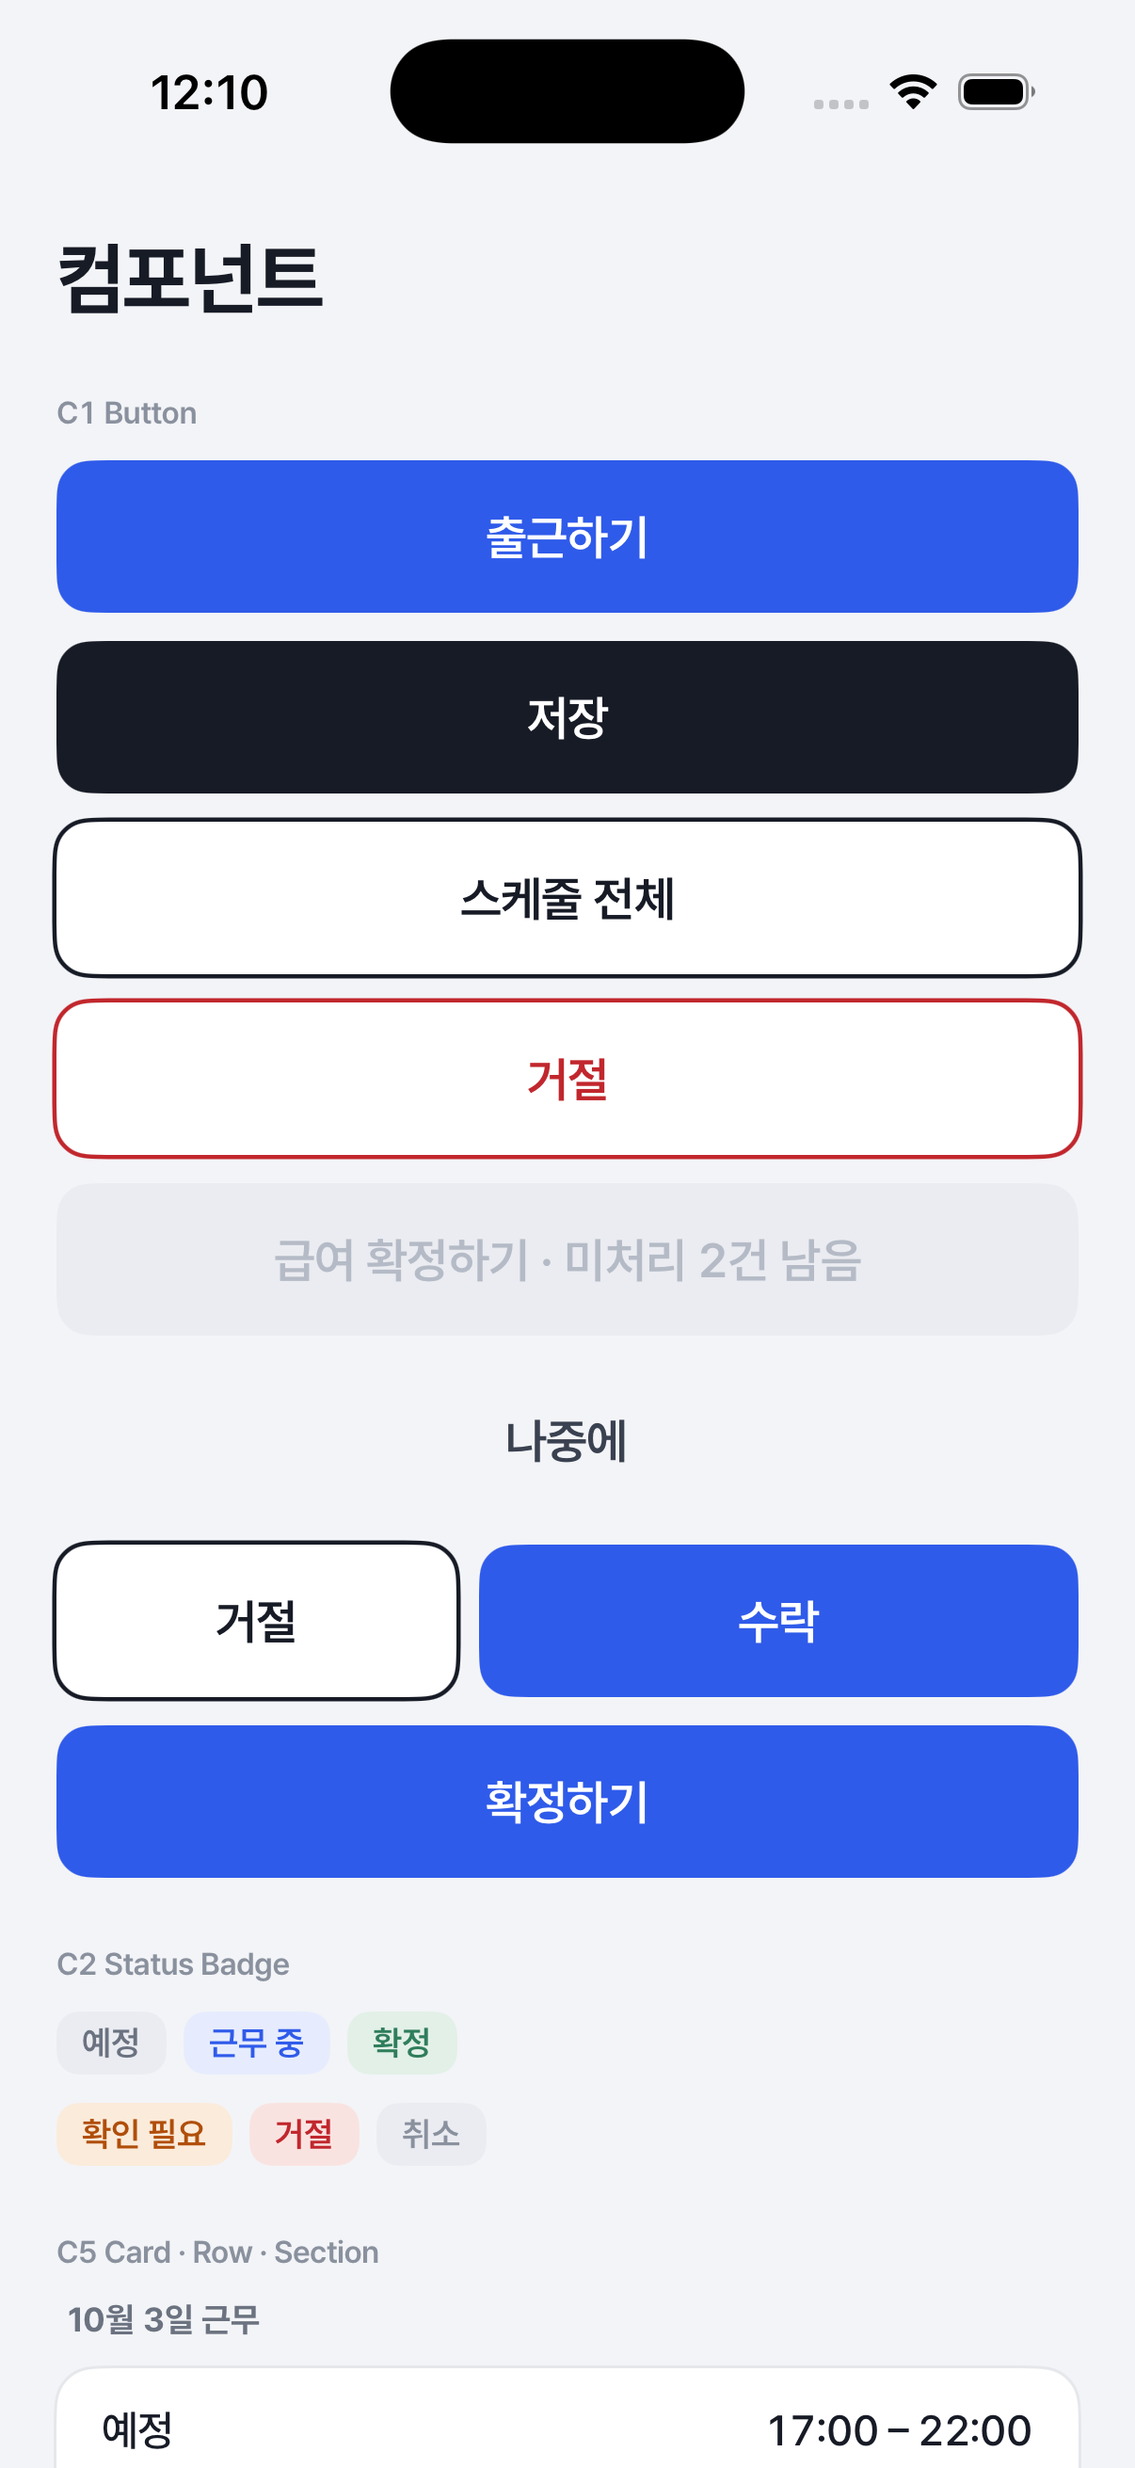
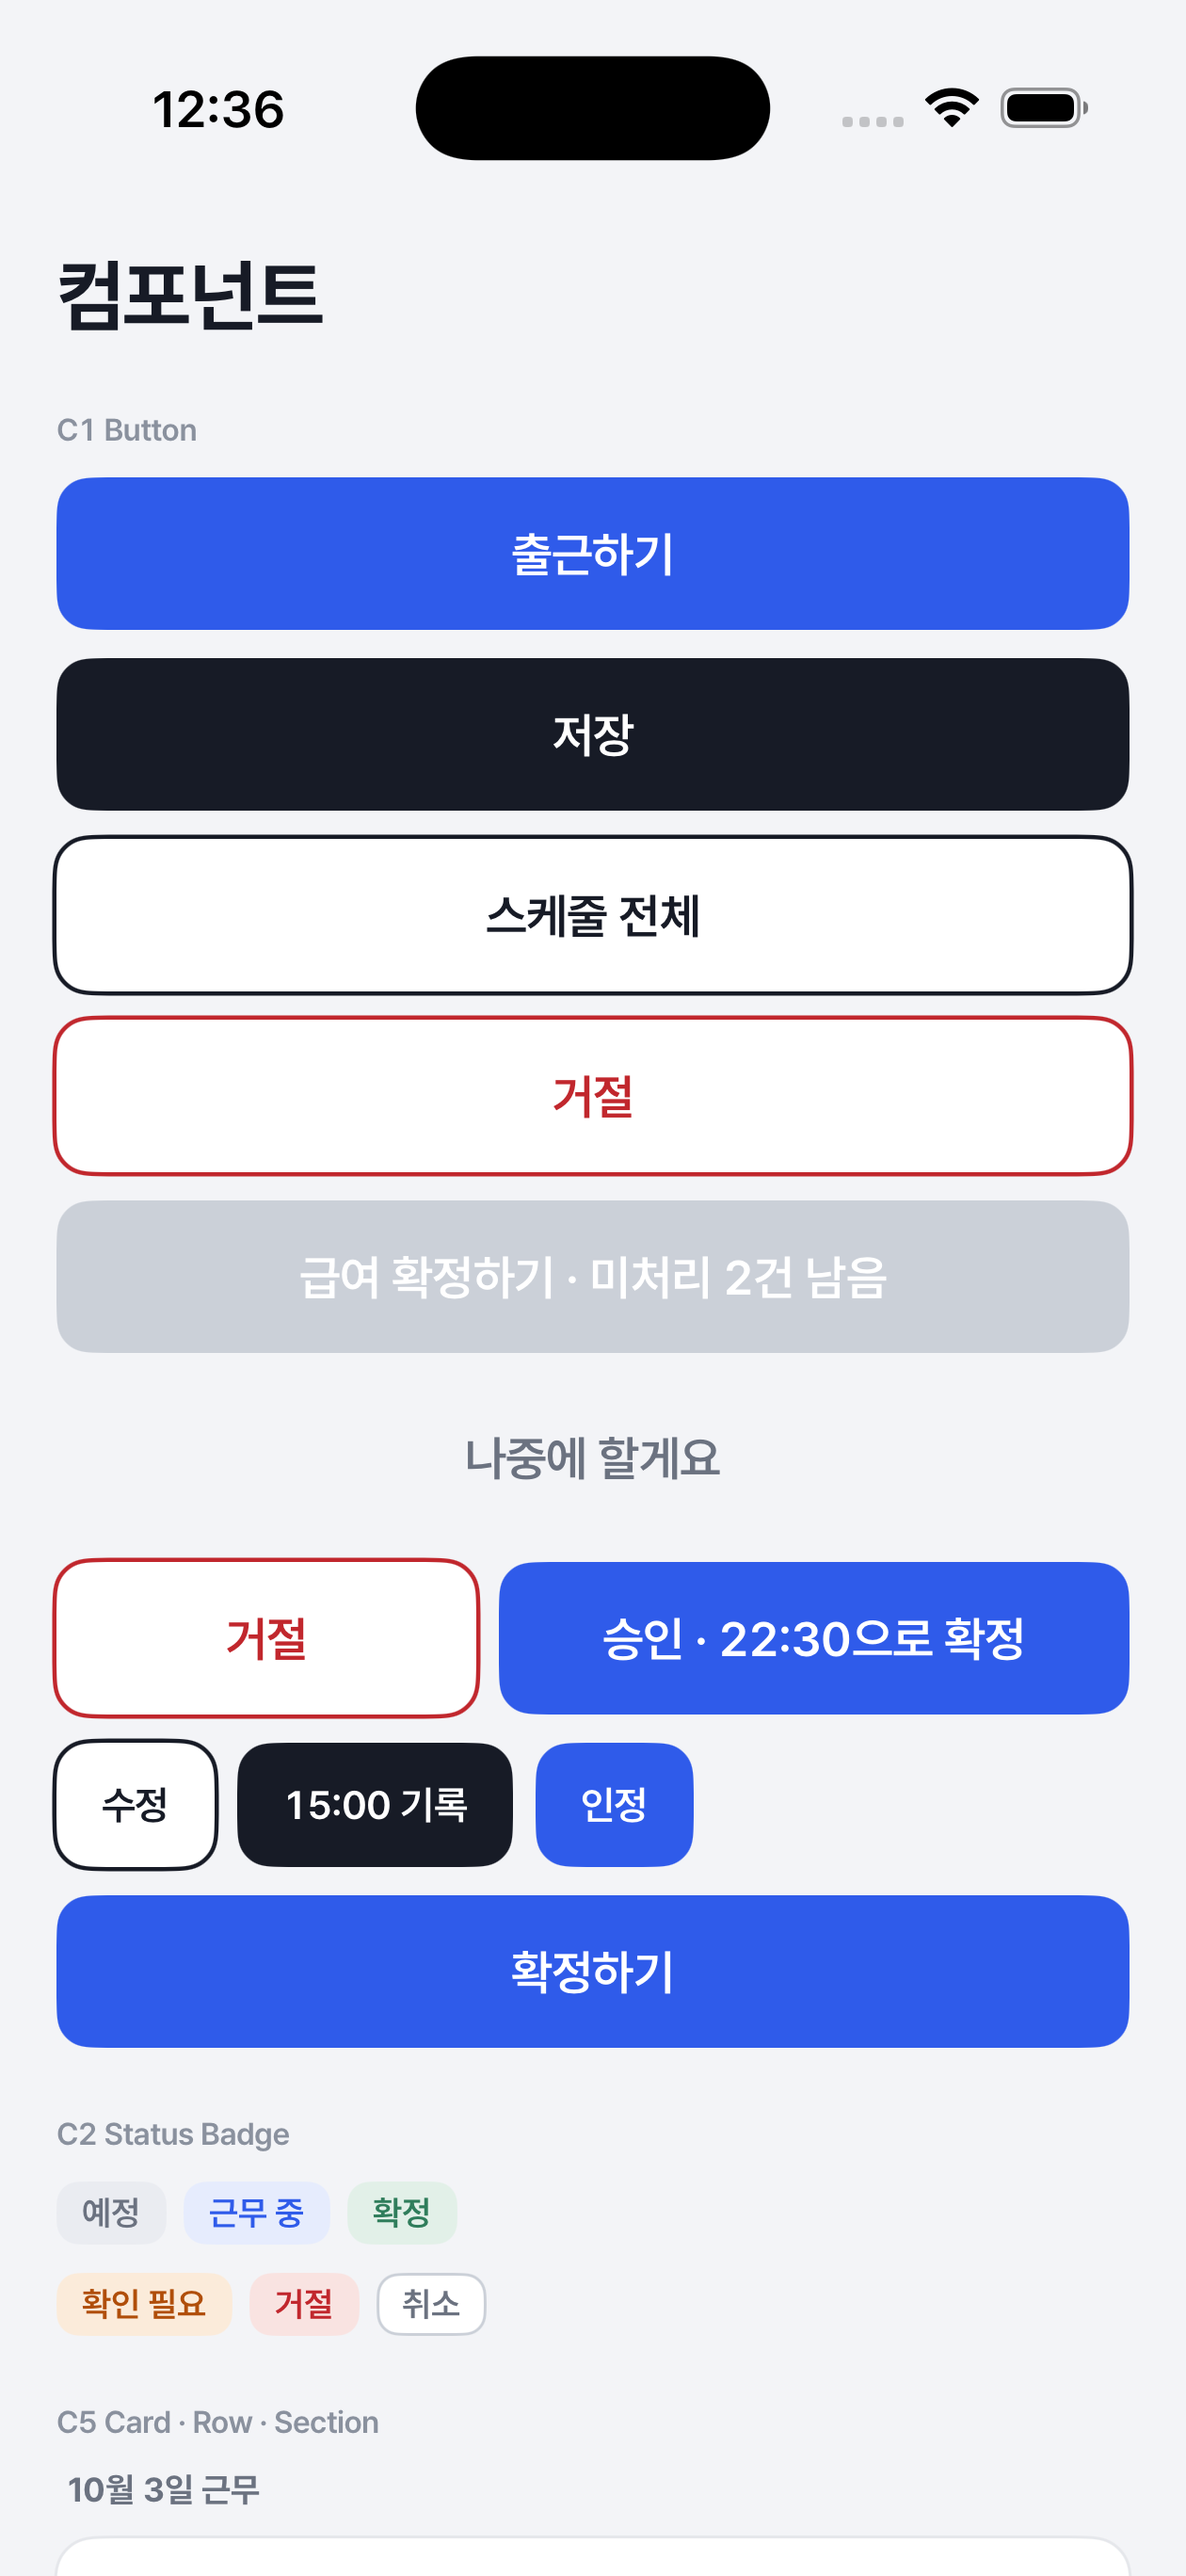
docs: 실행 기반 README와 API 계약, 디자인 비교표 추가 · 토스트 높이 수정
- README.md: 도구 버전, 토큰 · iOS 빌드 · 테스트 명령, 테마 · 글꼴 · 접근성 기준
- docs/api/contract.md: 인증 인터페이스(가짜 구현)와 다음 단계 데이터 범위
- docs/design/compare: 디자인 원본과 iOS 갤러리 비교표, 수정 후 캡처로 교체
- PumToast: 실행 취소 버튼이 토스트 높이를 늘리지 않게(터치 영역 44pt 유지)
- .gitignore: xcuserdata · DerivedData · node_modules, Xcode 개인 설정 파일을 추적에서 제외(파일은 유지)

diff --git a/Pum/Pum/DesignSystem/Components/PumToast.swift b/Pum/Pum/DesignSystem/Components/PumToast.swift
@@ -22,7 +22,8 @@ struct PumToast: View {
                 Button(actionTitle, action: action)
                     .pumText(.callout)
                     .foregroundStyle(PumTokens.ColorToken.blue300)
-                    .frame(minHeight: PumTokens.Size.tapMin)
+                    // 터치 영역은 44pt 이상, 토스트 높이는 그대로(디자인 C11)
+                    .contentShape(Rectangle().inset(by: -(PumTokens.Size.tapMin - PumTokens.FontToken.callout.size) / 2))
             }
         }
         .padding(.vertical, PumTokens.Space.s12)

diff --git a/README.md b/README.md
@@ -1,0 +1,61 @@
+# 품(Pum) — 소규모 사업장 근무 · 급여
+
+출퇴근 기록부터 급여 계산 · 명세서 · 지급 처리까지. 설계는 Claude Design 프로젝트 「근무 관리 급여 시스템」, 정리본은 [`docs/design/`](docs/design/README.md).
+
+- 작업 규칙: [`AGENTS.md`](AGENTS.md) · 코드 규칙 [`docs/conventions/code.md`](docs/conventions/code.md) · Git [`docs/conventions/git.md`](docs/conventions/git.md)
+- 요구사항 추적: [`docs/requirements/traceability.md`](docs/requirements/traceability.md)
+
+## 지금 있는 것
+
+| 영역 | 상태 |
+|---|---|
+| iOS 앱 (`Pum/`) | 디자인 토큰 · 공통 컴포넌트(C1 · C2 · C5 · C11 · C12) · 컴포넌트 갤러리 · 인증 인터페이스(가짜 구현) |
+| 디자인 토큰 (`packages/design-tokens/`) | Claude Design `tokens/*.css` → iOS Swift · JSON 생성 |
+| Android · Web · Supabase | 아직 없음 |
+
+## 필요한 도구 (확인한 버전)
+
+| 도구 | 버전 | 용도 |
+|---|---|---|
+| Xcode | 26.5 (Swift 6.3.2 컴파일러, 프로젝트 언어 모드 Swift 5) | iOS 빌드 · 테스트 |
+| iOS 시뮬레이터 | iOS 26.5 · iPhone 17 | 최소 지원 iOS 26.5(프로젝트 기본값, 미확정) |
+| Node.js | 26.5.0 (필요 ≥ 22) | 토큰 생성 · 테스트(외부 패키지 없음) |
+| Supabase CLI | 2.109.1 | 서버(아직 미사용) |
+
+## 명령
+
+### 디자인 토큰
+
+```sh
+cd packages/design-tokens
+npm run build   # src/*.css → dist/tokens.json, Pum/Pum/DesignSystem/Generated/PumTokens.swift
+npm run check   # 생성물이 원본과 같은지 검사(다르면 실패)
+npm test        # 파서 · 값 테스트
+```
+
+토큰을 바꾸려면 Claude Design의 `tokens/*.css`를 `src/`에 그대로 복사하고 `npm run build`. 생성물(`PumTokens.swift`, `dist/`)을 손으로 고치지 않는다.
+
+### iOS
+
+```sh
+cd Pum
+# 빌드
+xcodebuild -project Pum.xcodeproj -scheme Pum -destination 'platform=iOS Simulator,name=iPhone 17' build
+# 단위 테스트 (Swift Testing)
+xcodebuild -project Pum.xcodeproj -scheme Pum -destination 'platform=iOS Simulator,name=iPhone 17' test -only-testing:PumTests
+```
+
+- 실행하면 컴포넌트 갤러리가 뜬다. 섹션으로 바로 가기: 실행 인자 `-PumGalleryAnchor C12` (C1 · C2 · C5 · F4 · C12 · C11).
+- 디자인 비교 자료: [`docs/design/compare/`](docs/design/compare/README.md)
+
+## 테마 · 글꼴 · 접근성
+
+| 항목 | 기준 |
+|---|---|
+| 테마 | 라이트만. 디자인에 다크 모드 값이 없어 `.preferredColorScheme(.light)`로 고정(다크 모드는 디자인 결정 필요) |
+| 글꼴 | Pretendard v1.3.9 정적 5종(Regular · Medium · SemiBold · Bold · ExtraBold)을 앱에 포함, 실행 시 등록. 라이선스 SIL OFL 1.1 (`Pum/Pum/Resources/Fonts/Pretendard-LICENSE.txt`) |
+| 글자 크기 | 디자인 11단계를 iOS 텍스트 스타일에 묶어 동적 글자 크기를 따른다. 숫자는 고정폭(F4) |
+| 터치 영역 | 최소 44pt(`--tap-min`) |
+| 동작 줄이기 | M22 — 이동 · 크기 변화 대신 페이드, 스켈레톤 깜빡임 정지, 누름 축소 없음 |
+| VoiceOver | 배지는 「상태: …」, 토스트는 안내 방송, 스켈레톤은 「불러오는 중」 |
+| 로딩 · 빈 · 오류 | C12 · M8 · M32: 0.5초 넘으면 스켈레톤, 반짝임 없음 / 그림 없이 제목 · 이유 · 행동 하나 |

diff --git a/docs/design/compare/README.md b/docs/design/compare/README.md
@@ -1,0 +1,33 @@
+# 디자인 비교 — 공통 컴포넌트 (iOS)
+
+| 기준 디자인 | iOS 구현 |
+|---|---|
+| `design-*.png` — Claude Design `디자인 시스템.dc.html`(etag 1791727713799636)의 C1 · C2 · C5 · C11 · C12 · F3 카드를 헤드리스 Chrome으로 캡처 (2026-10-12) | `ios-gallery-*.png` — 컴포넌트 갤러리, iPhone 17 시뮬레이터 · iOS 26.5 (`-PumGalleryAnchor` 로 섹션 이동) |
+
+기준 디자인 캡처는 1배율 웹 렌더링, iOS는 3배율 기기 화면이라 픽셀 크기는 다르다. 비교는 색 · 모서리 · 글자 굵기 · 배치 · 상태 표현 기준.
+
+## 비교 결과
+
+| 컴포넌트 | 디자인 | 구현 | 결과 |
+|---|---|---|---|
+| C1 PRIMARY · DARK · OUTLINE · DANGER | 높이 54 · 모서리 12 · 파랑/먹색/외곽선 1.5 | 같음 | 일치 |
+| C1 DISABLED | 회색(gray-300) 바탕 · 흰 글자 · 이유를 문구에 | 1차 구현은 연회색 바탕 · 회색 글자 → **수정** | 수정 후 일치 |
+| C1 TEXT | 회색 글자 | 1차 구현은 진회색(gray-800) → **보조 회색으로 수정** | 수정 후 일치 |
+| C1 PAIR | 부정 = 빨간 외곽선 「거절」, 1 : 1.4–1.6 | 1차 구현은 검은 외곽선 → **빨간 외곽선 기본값으로 수정**, 비율 1 : 1.5 | 수정 후 일치 |
+| C1 SMALL | 내용 폭 버튼 · 화면상 높이 약 30–32 | 높이 44(`--button-h-sm`, 디자인 문구 「40–44px」) · 내용 폭 | **차이** — 디자인 그림과 문구가 서로 다름. 토큰(44) 유지 |
+| C2 배지 6종 | 12px 600 · 모서리 8 · 연한 바탕 | 같음 | 일치 |
+| C2 종료 · 취소 | 흰 바탕 + 회색 테두리 | 1차 구현은 회색 채움 → **수정** | 수정 후 일치 |
+| C2 「내 기록」 점선 · 「✓ 사업장 확인」 | 점선 테두리 · 체크 글자 | 미구현 | 다음 단계(근무기록 화면에서) |
+| C5 카드 · 행 | 모서리 14 · hairline · 키 회색 · 값 먹색 600 · 안쪽 구분선 | 1차 구현은 키가 먹색 · 구분선이 끝까지 → **수정** | 수정 후 일치 |
+| C5 확인 필요 카드 | 주황 외곽선(attention) | 같음 | 일치 |
+| C5 토글 행 | 파란 토글 | 미구현 | 다음 단계(C4와 함께) |
+| C11 토스트 | 먹색 · 모서리 12 · 앞 아이콘(✓ 초록 · 오프라인 주황) · 실행 취소 파랑 | 앞 아이콘 1차 미구현 → **추가** | 수정 후 일치 |
+| C12 상태 | 회색 칸 안에 제목 · 이유 · 작은 외곽선 버튼, 오프라인은 먹색 띠 | 1차 구현은 큰 파란 버튼 → **작은 외곽선 버튼으로 수정**. 제목은 F3 「title-3 = 빈 상태」에 따라 20 | **차이** — C12 카드의 제목은 약 15–16, F3 규칙은 20. 확인 필요 |
+| C12 로딩 | 회색 막대 2줄 · 반짝임 없음 · 문구 | 회색 막대 · 투명도만(M8) · 0.5초 뒤 표시(M32) | 일치(문구 줄은 화면별로) |
+| F3 글자 | Pretendard | Pretendard 정적 5종 포함 · 동적 글자 크기 | 일치 |
+
+## 남은 차이 · 확인 필요
+
+1. C1 SMALL 높이: 디자인 그림(약 30–32)과 문구 · 토큰(40–44) 중 무엇을 따를지.
+2. C12 제목 크기: C12 카드(약 15–16) vs F3 규칙(title-3 20).
+3. 다크 모드: 디자인에 값이 없어 라이트 고정.

diff --git a/docs/api/contract.md b/docs/api/contract.md
@@ -1,0 +1,30 @@
+# API 계약 — 최소 범위
+
+실제 기능을 연결하는 데 필요한 것만 적는다. 서버는 Supabase(DEC-008). 테이블 · 타입의 기준은 DB 설계서, 상태 값은 아키텍처 설계서.
+
+## 인증 (REQ-001 · REQ-011)
+
+| 단계 | 앱 인터페이스 (`AuthService`) | Supabase | 상태 |
+|---|---|---|---|
+| 인증번호 요청 | `requestCode(phone:)` | Auth 전화번호 OTP 발송 | 인터페이스만. **SMS 발송 업체 미정(유료)** |
+| 확인 | `verify(phone:code:) → PumSession` | OTP 확인 → access/refresh 토큰 | 인터페이스만 |
+| 현재 세션 | `currentSession()` | 저장된 세션 · 자동 갱신 | 인터페이스만 |
+| 로그아웃 | `signOut()` | 세션 폐기 | 인터페이스만 |
+
+- 오류(`AuthError`): `invalidPhone` · `invalidCode(remainingAttempts:)` · `codeExpired` · `tooManyAttempts(retryAfter:)` · `network`. 화면 문구는 디자인(2b · 15e)을 따른다.
+- 시도 제한: 5번 틀리면 1시간 잠금(21h와 같은 규칙 — 앱 OTP에도 같은 값을 쓸지는 미정).
+- 지금 구현: `MockAuthService`(네트워크 없음, 인증번호 `000000`). 미리보기 · 테스트 · 로컬 실행용.
+- 토큰은 기기 키체인에만 저장한다. 로그 · 화면에 출력하지 않는다.
+
+## 데이터 (다음 단계)
+
+| 기능 | 테이블(DB 설계서) | 접근 |
+|---|---|---|
+| 출퇴근 기록 | `attendance.attendance_events`, `attendance.work_records` | 앱 → Supabase(RLS: 본인 · 소속 사업장) |
+| 급여 계산 | `payroll.*` + 엔진 | Edge Function(서버에서만 계산, Trace 저장) |
+
+`supabase/` 초기화와 마이그레이션은 아직 하지 않았다(로컬 DB는 Docker 이미지 수 GB 필요 — 실행 전 확인).
+
+## 샘플 데이터
+
+`Pum/Pum/Core/SampleData.swift` — 디자인 예시 값(가짜 이름 · 금액). 실제 개인정보를 넣지 않는다.
